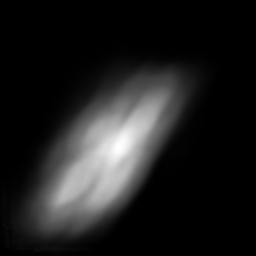
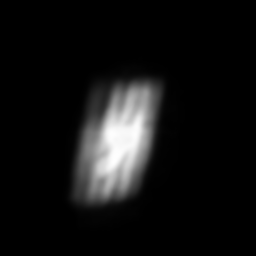
formatting and new test data files

Changed region(s): [[0.0625, 0.25, 0.7812, 0.9375]]

diff --git a/artist/field/kinematics_rigid_body.py b/artist/field/kinematics_rigid_body.py
@@ -593,4 +593,4 @@ class RigidBody(Kinematics):
 
         self.active_motor_positions = motor_positions
 
-        return orientations @ self.initial_orientation_offsets
+        return  orientations @ self.initial_orientation_offsets